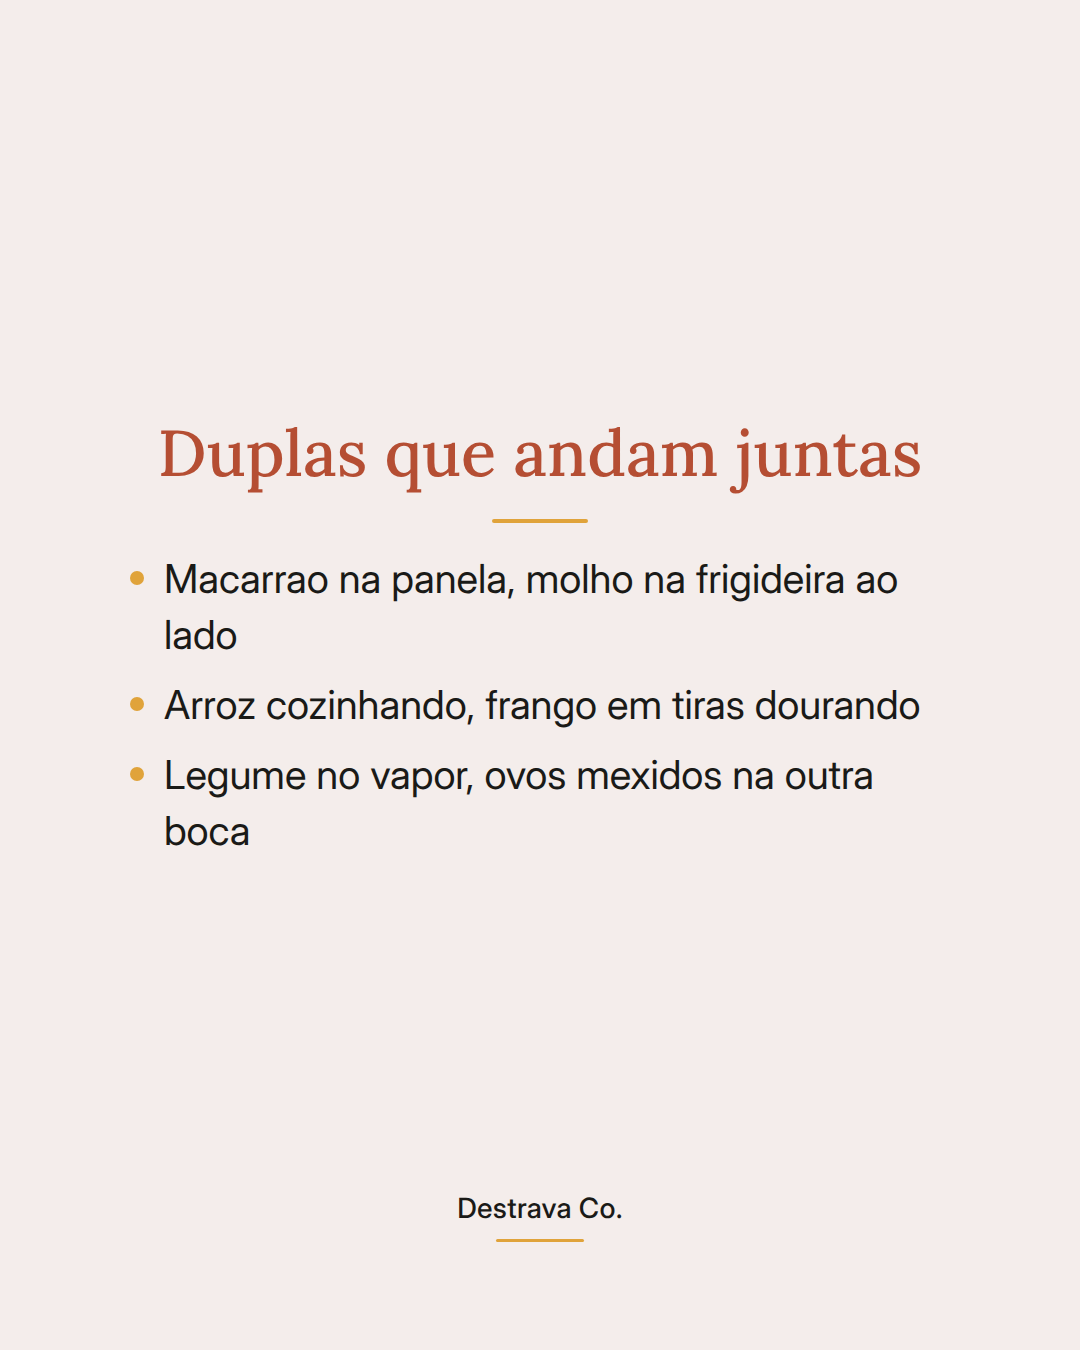
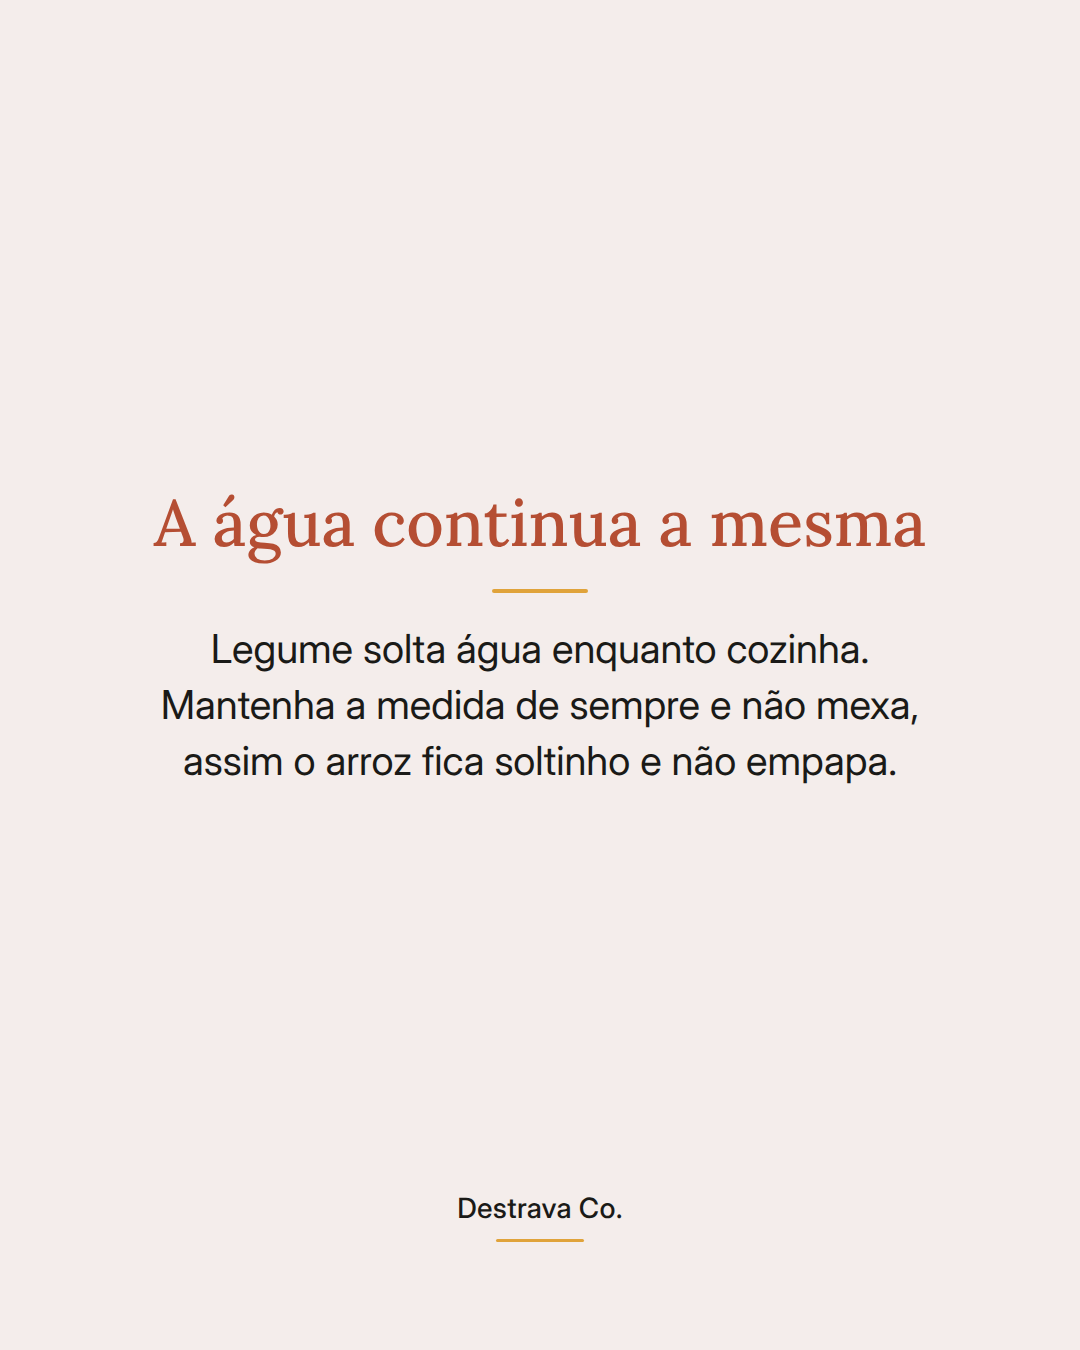
content: peças Instagram 2026_10_25

Changed region(s): [[0.1222, 0.3111, 0.8556, 0.6222]]

diff --git a/public/content/2026_10_25/index.html b/public/content/2026_10_25/index.html
@@ -19,24 +19,24 @@
 </head>
 <body>
 <h1>Cozinha · capa A (campo)</h1>
-<div class="meta">2026-10-25 · gerado em 2026-10-25T10:01:57 · sticker sugerido nos Stories: pergunta aberta</div>
+<div class="meta">2026-10-25 · gerado em 2026-10-25T14:38:24 · sticker sugerido nos Stories: pergunta aberta</div>
 <h2>Carrossel</h2>
-<div class="strip"><img src="2026_10_25_-_Carrossel_Cozinha_01.png" alt="Foto de uma frigideira e uma panela no fogao, com titulo em creme sobre fundo campo da linha." title="2026_10_25_-_Carrossel_Cozinha_01.png"><img src="2026_10_25_-_Carrossel_Cozinha_02.png" alt="Fundo bem claro com titulo no tom campo profundo explicando qual panela acender primeiro." title="2026_10_25_-_Carrossel_Cozinha_02.png"><img src="2026_10_25_-_Carrossel_Cozinha_03.png" alt="Fundo bem claro com titulo no tom campo profundo e tres combinacoes de panelas simultaneas." title="2026_10_25_-_Carrossel_Cozinha_03.png"><img src="2026_10_25_-_Carrossel_Cozinha_04.png" alt="Fundo bem claro com titulo no tom campo profundo e um limite de duas panelas por jantar." title="2026_10_25_-_Carrossel_Cozinha_04.png"><img src="2026_10_25_-_Carrossel_Cozinha_05.png" alt="Fundo campo profundo com texto creme e botao no tom de acento convidando a baixar o PDF gratis." title="2026_10_25_-_Carrossel_Cozinha_05.png"></div>
+<div class="strip"><img src="2026_10_25_-_Carrossel_Cozinha_01.png" alt="Lâmina de capa com fundo campo e título em creme sobre cozinhar legume junto com o arroz na mesma panela." title="2026_10_25_-_Carrossel_Cozinha_01.png"><img src="2026_10_25_-_Carrossel_Cozinha_02.png" alt="Lâmina de fundo bem claro com título em verde profundo e lista de três momentos pra colocar cada legume no arroz." title="2026_10_25_-_Carrossel_Cozinha_02.png"><img src="2026_10_25_-_Carrossel_Cozinha_03.png" alt="Lâmina de fundo bem claro com título em verde profundo explicando que a medida de água do arroz não muda." title="2026_10_25_-_Carrossel_Cozinha_03.png"><img src="2026_10_25_-_Carrossel_Cozinha_04.png" alt="Lâmina de fundo bem claro com título em verde profundo e três acabamentos que transformam o arroz em jantar." title="2026_10_25_-_Carrossel_Cozinha_04.png"><img src="2026_10_25_-_Carrossel_Cozinha_05.png" alt="Lâmina final com fundo campo profundo, texto creme e botão no tom de acento convidando a baixar o PDF de receitas rápidas." title="2026_10_25_-_Carrossel_Cozinha_05.png"></div>
 <h2>Stories</h2>
-<div class="strip"><img class="story" src="2026_10_25_-_Stories_Cozinha_01.png" alt="Fundo campo da linha com titulo em creme convidando a deslizar para o feed." title="2026_10_25_-_Stories_Cozinha_01.png"><img class="story" src="2026_10_25_-_Stories_Cozinha_02.png" alt="Stories em fundo terracota com convite ao e-book gratuito de 20 receitas rápidas e o endereço da página em destaque no chip mostarda." title="2026_10_25_-_Stories_Cozinha_02.png"></div>
+<div class="strip"><img class="story" src="2026_10_25_-_Stories_Cozinha_01.png" alt="Story com fundo campo e título em creme sobre cozinhar legume junto com o arroz, convidando a ver o feed." title="2026_10_25_-_Stories_Cozinha_01.png"><img class="story" src="2026_10_25_-_Stories_Cozinha_02.png" alt="Stories em fundo terracota com convite ao e-book gratuito de 20 receitas rápidas e o endereço da página em destaque no chip mostarda." title="2026_10_25_-_Stories_Cozinha_02.png"></div>
 <div class="meta">1º · stories post do dia · <a href="2026_10_25_-_Stories_Cozinha_01.png" download="2026_10_25_-_Stories_Cozinha_01.png">⬇ baixar</a> · sticker de link → post do dia (permalink em publicado.json depois de publicar) · sticker extra sugerido: pergunta aberta</div><div class="meta">2º · stories oferta · <a href="2026_10_25_-_Stories_Cozinha_02.png" download="2026_10_25_-_Stories_Cozinha_02.png">⬇ baixar</a> · sticker de link → <a href="https://lp.destravaco.com.br/receitas-15min">https://lp.destravaco.com.br/receitas-15min</a></div>
 <div class="meta">Stories não vão pela API: baixe e poste no app colando o sticker de link.</div>
 <h2>Legenda</h2>
-<pre>Jantar rapido fica mais rapido quando voce usa duas bocas do fogao ao mesmo tempo.
+<pre>Arroz e legume na mesma panela resolvem o jantar inteiro em um preparo só.
 
-A gente costuma cozinhar em fila: primeiro o arroz, depois o frango, depois o legume. O fogao tem quatro bocas e a maior parte da noite so uma esta ligada.
+Em vez de abrir outra panela pra cozinhar o legume, ele entra direto no arroz. O segredo é a ordem: o que é duro vai com a água, o que é macio entra nos minutos finais e as folhas só depois de desligar o fogo, com a tampa fechada.
 
-O truque e simples: acende primeiro o que demora mais e deixa cozinhando sozinho. Enquanto isso, a frigideira ao lado resolve a proteina. Quando o arroz terminar, o resto ja esta pronto.
+A medida de água não muda. O legume solta um pouco de líquido no caminho, então é só não mexer e deixar o arroz trabalhar sozinho.
 
-So nao passe de duas panelas. Duas voce consegue acompanhar, quatro viram correria e louca empilhada.
+Na hora de servir, um ovo frito, um frango desfiado ou um pouco de atum por cima já fecham o prato. Azeite e limão no fim deixam tudo com cara de receita.
 
-Salva pra lembrar na proxima noite corrida e manda pra quem cozinha sempre em fila. Se quiser, pega tambem o PDF gratis com 20 receitas de ate 15 minutos.
+Salva pra lembrar na próxima vez que o arroz estiver no fogo e compartilha com quem cozinha com pressa. Se quiser mais ideias assim, o PDF com 20 receitas de até 15 minutos está liberado no nosso perfil.
 
-<span class="tags">#receitasrapidas #jantarpratico #cozinhapratica #praticidadenacozinha #receitasfaceis</span></pre>
+<span class="tags">#receitasrapidas #cozinhapratica #jantarpratico #comidadeverdade #receitasfaceis</span></pre>
 </body>
 </html>
